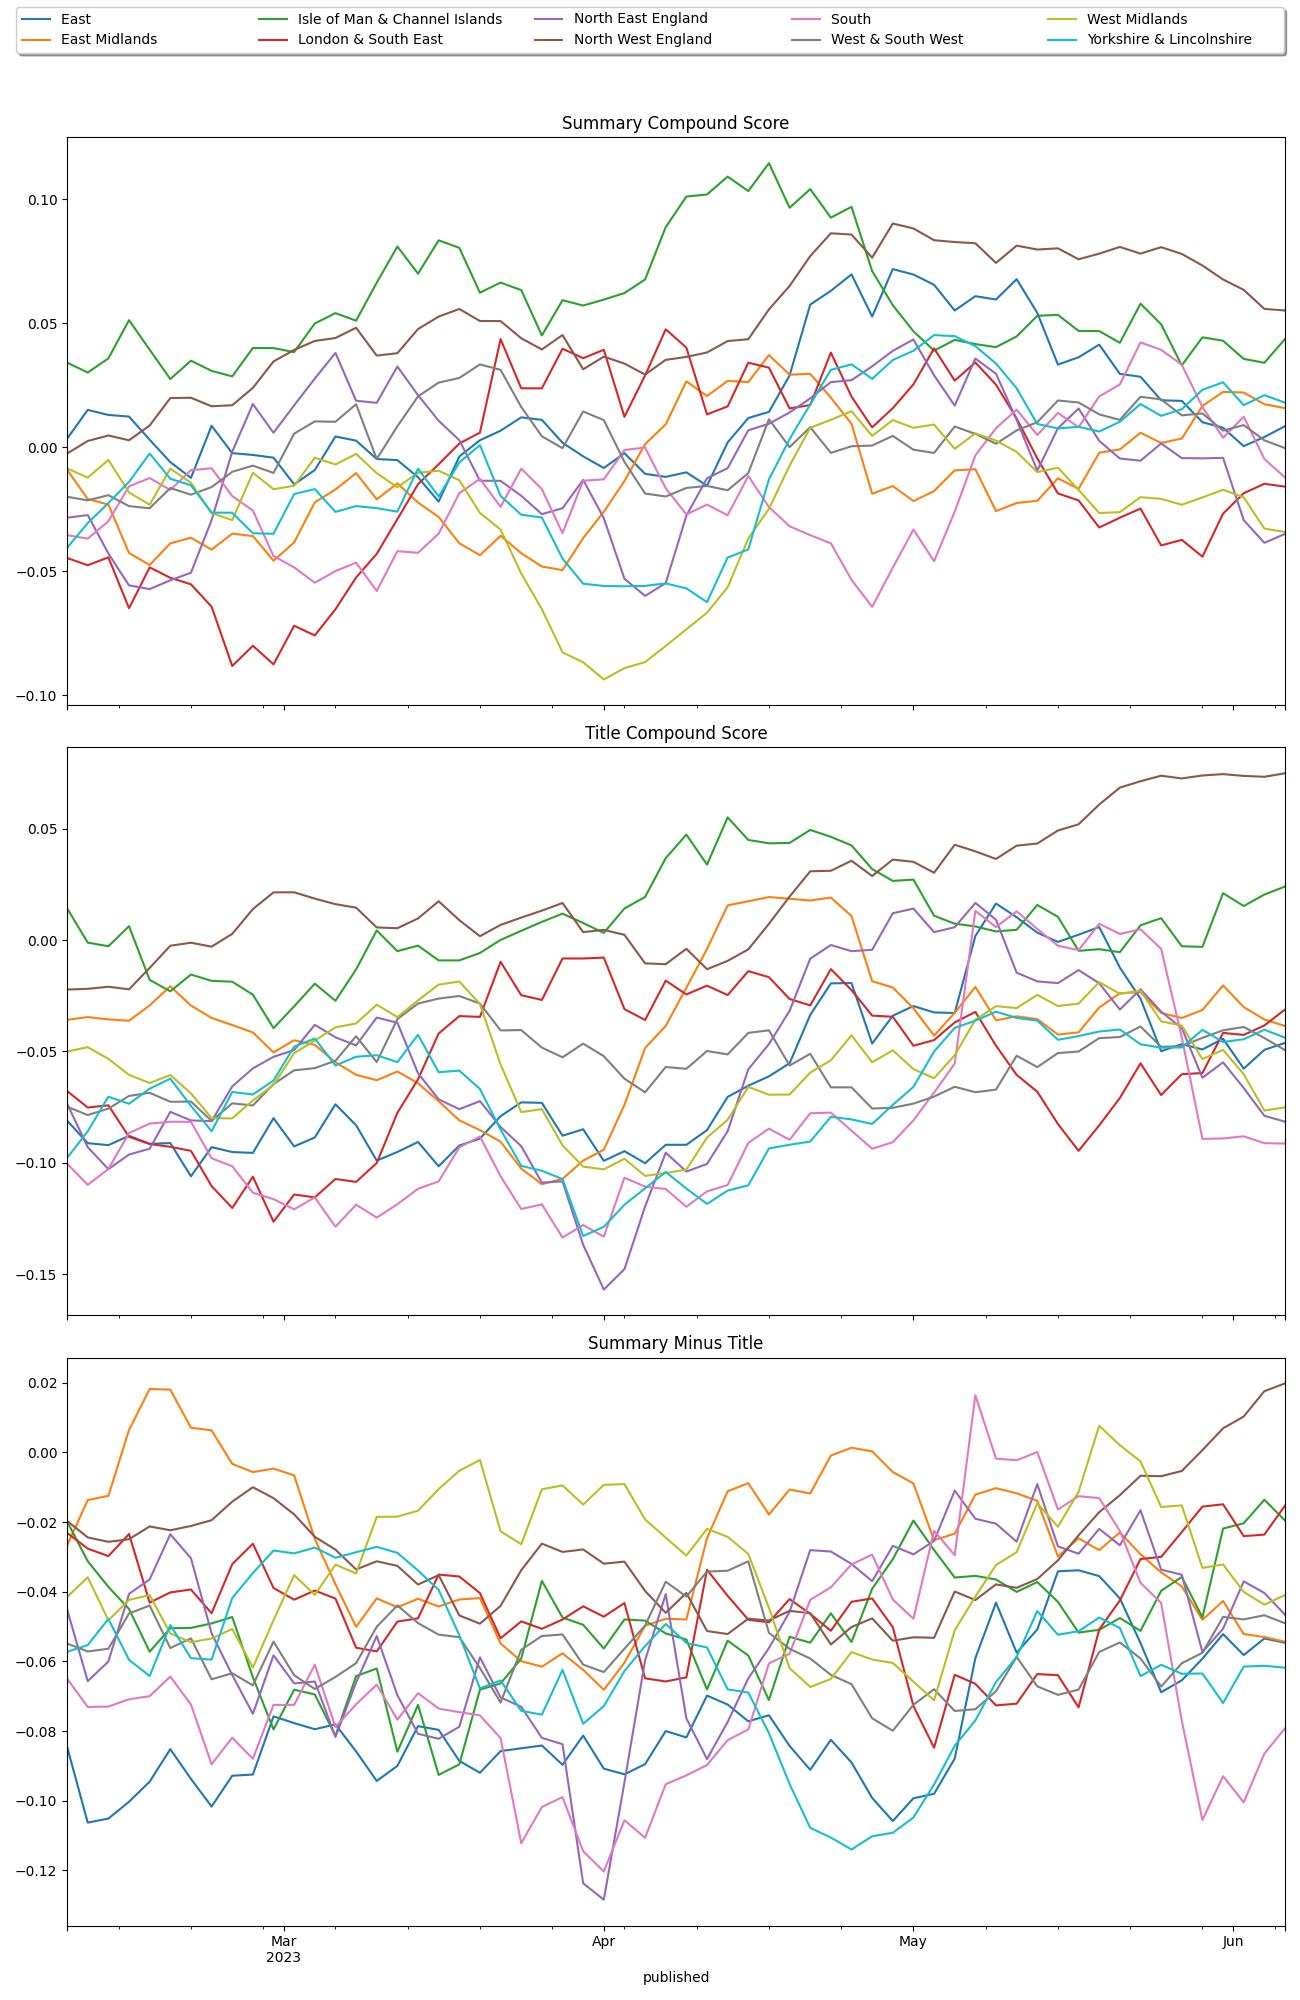
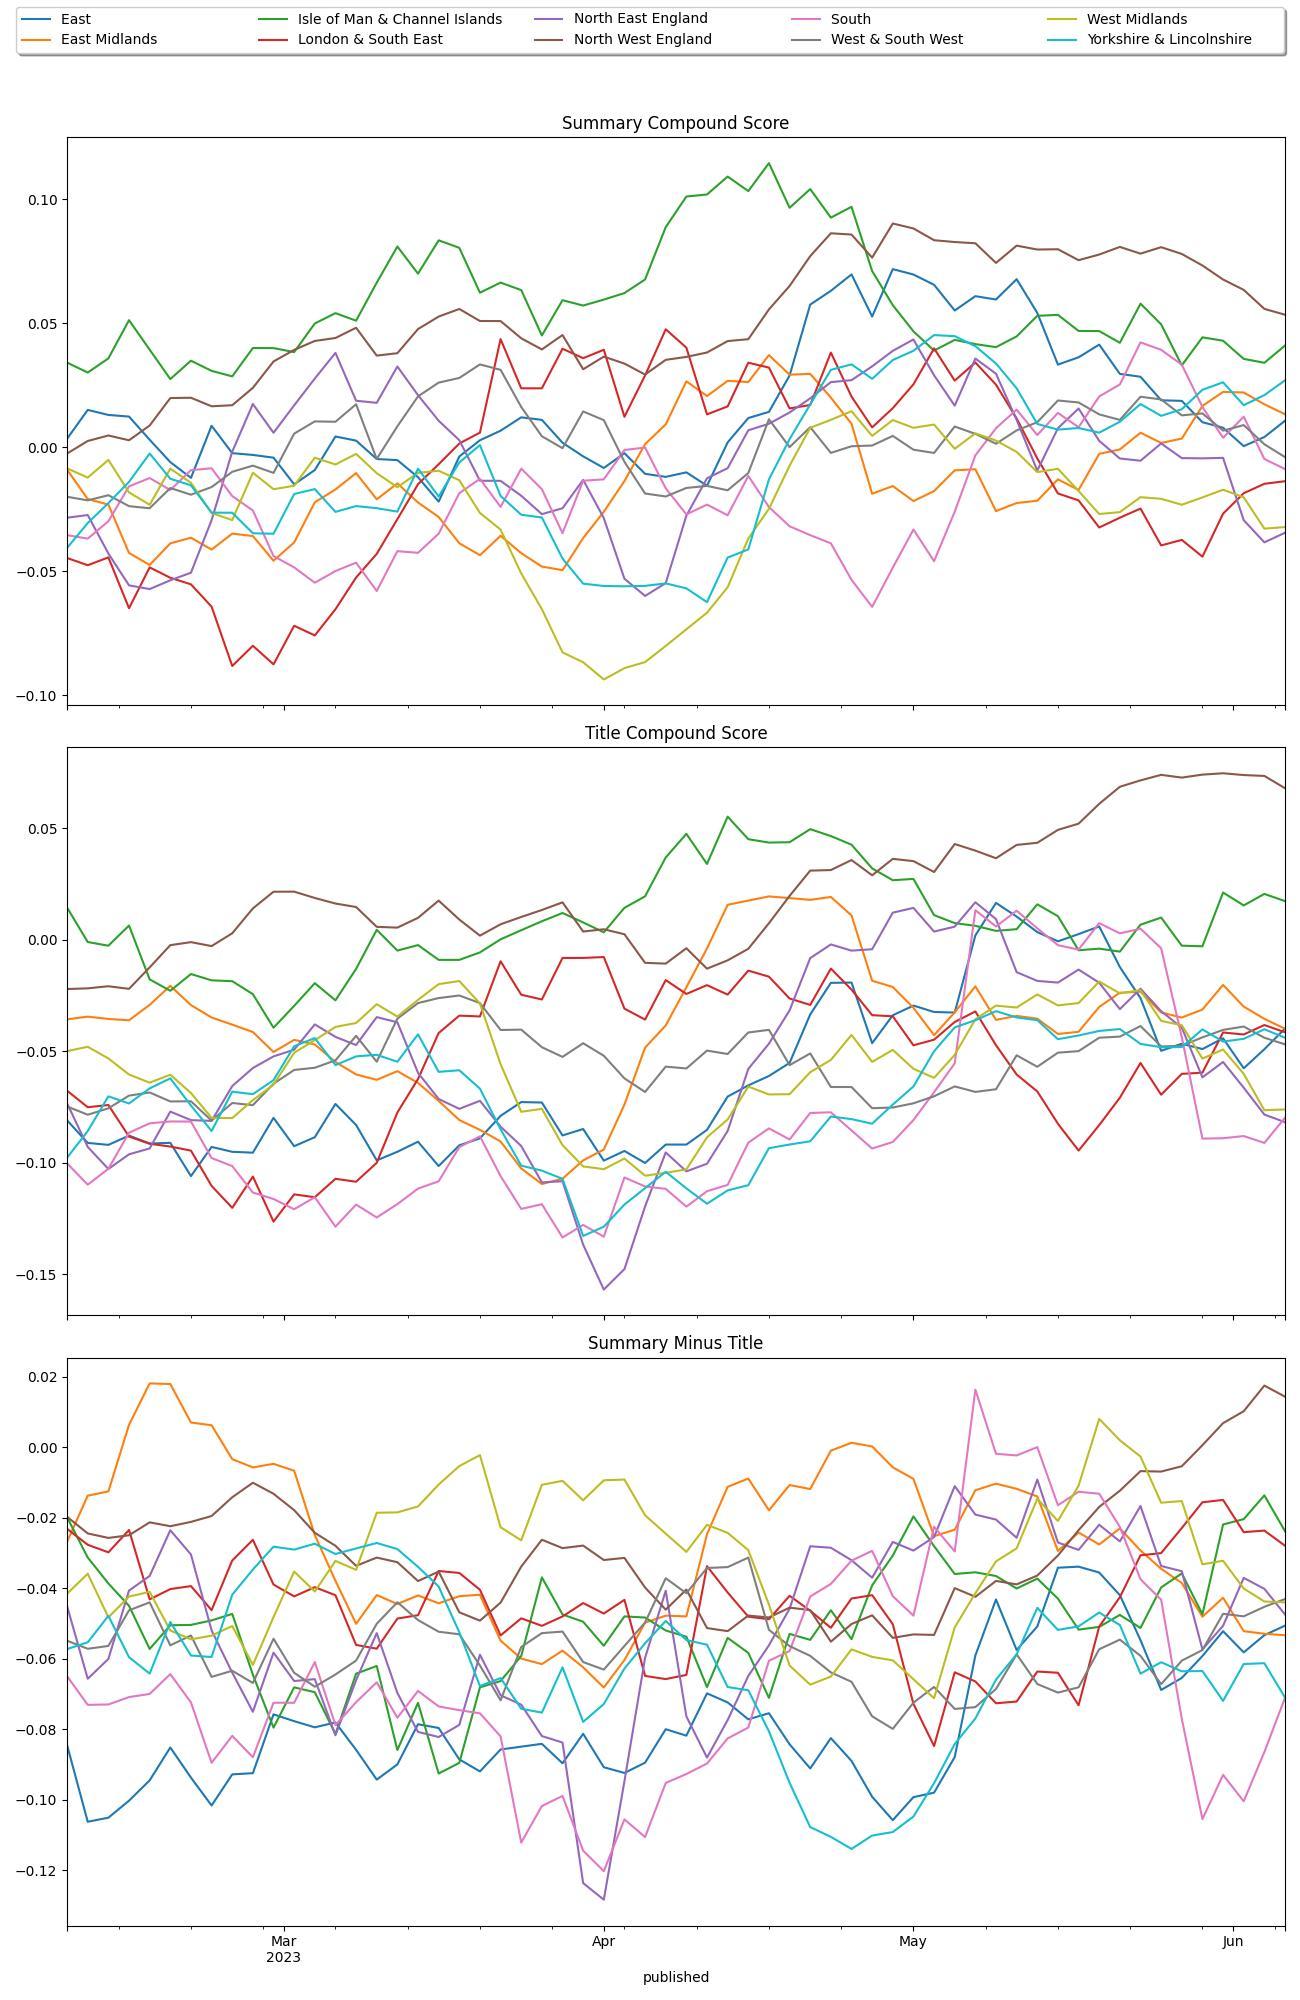
at 2023-06-07 10:43 ran: [Stage: 'complete-basic_report']

diff --git a/reports/complete/latest.md b/reports/complete/latest.md
@@ -1,12 +1,12 @@
-| region                        | published                  | summary                                                                                               | title                                               | url                                      |   summary_compound_score |   title_compound_score |   summary_minus_title |
-|:------------------------------|:---------------------------|:------------------------------------------------------------------------------------------------------|:----------------------------------------------------|:-----------------------------------------|-------------------------:|-----------------------:|----------------------:|
-| East                          | 2023-06-06 09:07:34        | The lead singer casually hopped onto the platform ahead of the band's two nights of gigs in Cardiff.  | Coldplay's Chris Martin arrives in city by train    | /news/uk-wales-65807561                  |                   0.1779 |                 0      |               -0.1779 |
-| East Midlands                 | 2023-06-06 09:27:37        | Sophie and Tom are raising money for the hospital where daughter Odette, four, had 15 operations.     | Marathon-running parents smash fundraising target   | /news/uk-england-leicestershire-65810539 |                   0      |                 0      |                0      |
-| Isle of Man & Channel Islands | 2023-06-06 09:11:02        | Andrew Mitchell is awarded the Founder's Medal by the Royal Geographical Society for his work.        | Conservationist awarded prestigious honour          | /news/world-europe-jersey-65811014       |                   0.7003 |                 0.7506 |                0.0503 |
-| London & South East           | 2023-06-06 07:59:57        | NHS Sussex is unable to find onward care for some psychiatric patients, leaving them stuck in A&E.    | Fit to leave patients kept in A&E for up to a month | /news/uk-england-sussex-65810426         |                   0.296  |                 0.3182 |                0.0222 |
-| North East England            | 2023-06-06 05:26:31        | A drug support charity is targeting primary schools to provide drug-harm education.                   | 'I teach primary pupils about the harms of drugs'   | /news/uk-england-tees-65767765           |                   0.6705 |                -0.4939 |               -1.1644 |
-| North West England            | 2023-06-06 09:18:20        | Seaman Charles Wotten died in 1919 during some of the UK's worst racial violence.                     | Race riot victim to get headstone for grave         | /news/uk-england-merseyside-65813499     |                  -0.9153 |                -0.8074 |                0.1079 |
-| South                         | 2023-06-06 09:07:57        | Farmer Robert Redman believes an organised crime gang is responsible for the £70,000 worth of thefts. | Drone spotted at farm before high-value tech theft  | /news/uk-england-oxfordshire-65811644    |                  -0.0772 |                 0      |                0.0772 |
-| West & South West             | 2023-06-06 09:02:10        | Andrew Critchley, 67, is charged with attempted murder after a man was stabbed.                       | Man appears in court accused of attempted murder    | /news/uk-england-somerset-65786214       |                  -0.8555 |                -0.7845 |                0.071  |
-| West Midlands                 | 2023-06-06 06:54:03.917000 |                                                                                                       | Transfer gossip: Spurs target Wolves' Kilman        | /sport/articles/c3g7wp1ndy2o             |                   0      |                -0.1779 |               -0.1779 |
-| Yorkshire & Lincolnshire      | 2023-06-06 09:19:37        | Police say the woman had flagged the car down claiming to be in distress before the robbery.          | Driver pulled from car after stopping to help woman | /news/uk-england-leeds-65819343          |                  -0.5267 |                 0.2732 |                0.7999 |
+| region                        | published           | summary                                                                                                                | title                                              | url                                        |   summary_compound_score |   title_compound_score |   summary_minus_title |
+|:------------------------------|:--------------------|:-----------------------------------------------------------------------------------------------------------------------|:---------------------------------------------------|:-------------------------------------------|-------------------------:|-----------------------:|----------------------:|
+| East                          | 2023-06-07 07:42:28 | Singer Pixie Lott and model Oliver Cheshire married at Ely Cathedral last June.                                        | Pixie Lott in surprise anniversary cathedral visit | /news/uk-england-cambridgeshire-65830728   |                   0      |                 0.2732 |                0.2732 |
+| East Midlands                 | 2023-06-07 09:03:47 | Victim Dylan Holliday, 16, was stabbed 13 times near an underpass in Wellingborough in August 2021.                    | Teenager killed boy within hours of leaving care   | /news/uk-england-northamptonshire-65829021 |                  -0.6124 |                -0.3182 |                0.2942 |
+| Isle of Man & Channel Islands | 2023-06-07 09:04:35 | Unite says more needs to be done to recruit and support ground handling staff at Jersey Airport.                       | Improvements needed for airport staff, union says  | /news/world-europe-jersey-65831129         |                   0.4019 |                 0.3182 |               -0.0837 |
+| London & South East           | 2023-06-07 08:38:27 | A watchdog calls for a review into Surrey County Council's shortcomings after three damning reports.                   | Council to pay £15k over education failures        | /news/uk-england-surrey-65832115           |                  -0.34   |                -0.5267 |               -0.1867 |
+| North East England            | 2023-06-06 21:33:27 | Jordan Thompson takes 5-21 as Yorkshire beat Leicestershire and Hampshire, Durham and Essex also win in the T20 Blast. | Yorkshire and Hampshire win again in T20 Blast     | /sport/cricket/65808210                    |                   0.5859 |                 0.5859 |                0      |
+| North West England            | 2023-06-07 09:14:55 | Specialists hope the machine will boost survival rates for lung cancer patients.                                       | Hospital gets UK's first lung cancer imager        | /news/uk-england-lancashire-65832557       |                   0.0516 |                -0.6597 |               -0.7113 |
+| South                         | 2023-06-07 08:14:57 | A carved piece of wood found during a construction project is believed to be the oldest in Britain.                    | Wood carving is 6,000 years old, experts say       | /news/uk-england-berkshire-65824134        |                   0      |                 0      |                0      |
+| West & South West             | 2023-06-07 08:47:51 | Plans for a sport hub and housing have been given the go-ahead despite a 600-name petition.                            | 'Scandalous' development on playing field approved | /news/uk-england-gloucestershire-65831119  |                   0      |                 0.5574 |                0.5574 |
+| West Midlands                 | 2023-06-07 09:26:26 | The National Lottery says 205 ticket-holders in the city have become millionaires since 1994.                          | Birmingham luckiest place for Lottery players      | /news/uk-england-birmingham-65830686       |                   0      |                 0.5994 |                0.5994 |
+| Yorkshire & Lincolnshire      | 2023-06-07 07:08:16 | Worsbrough Reservoir's banking requires "essential improvements", Barnsley Council says.                               | Project aims to 'protect reservoir for decades'    | /news/uk-england-south-yorkshire-65826439  |                   0      |                 0.3818 |                0.3818 |
